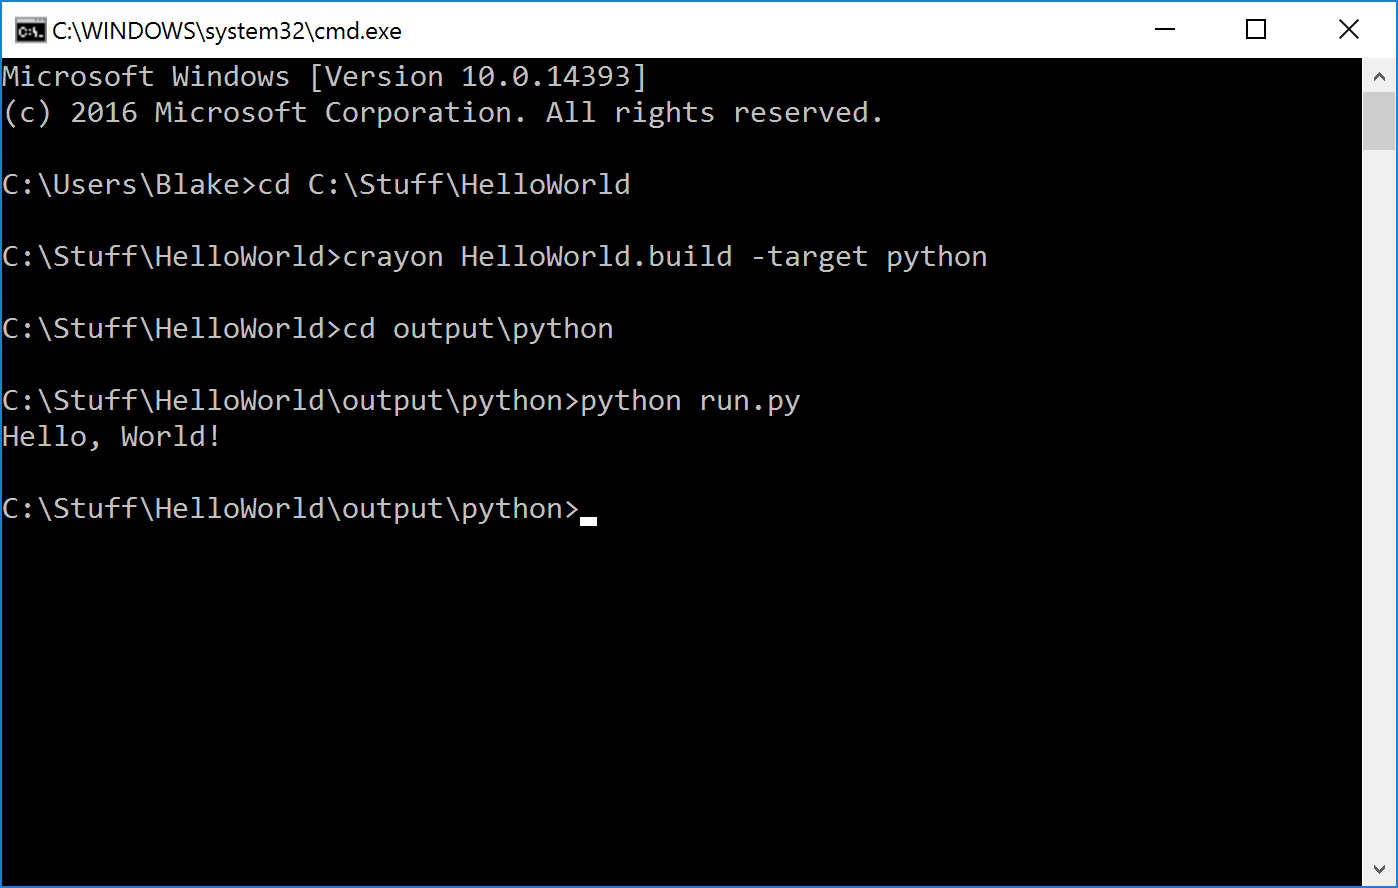
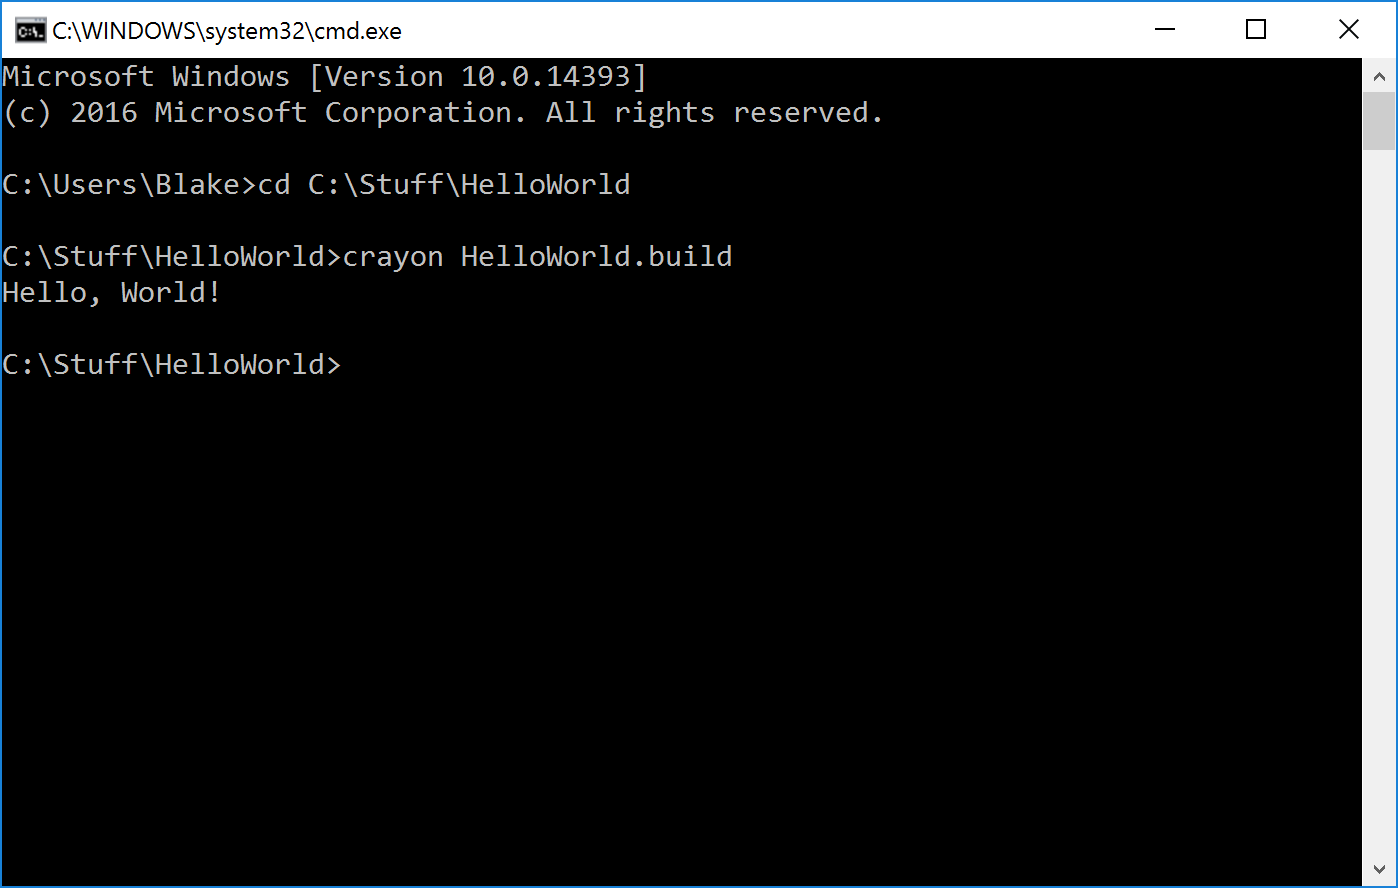
Various updates and rewording to the intermediate tutorial.

diff --git a/Tutorials/intro-intermediate/index.md b/Tutorials/intro-intermediate/index.md
@@ -54,13 +54,13 @@ function main() {
 }
 ```
 
-Now it's time to compile. Simply invoke `crayon` from the command line followed by the build file path:
+To compile, invoke `crayon` from the command line. Pass the .build file path as an argument.
 	
 ```
 C:\Stuff\HelloWorld> crayon HelloWorld.build
 ```
 
-And if all is well, you'll see this appear in the command line:
+If all is well, "Hello, World!" will appear in the command line:
 
 ```
 Hello, World!
@@ -71,9 +71,6 @@ operable program or batch file.` then your environment is not correctly configur
 [installation instructions](http://crayonlang.org/download/installation) or go to the IRC channel
 for help.
 
-If it worked, you'll notice there is now a folder called "output" which contains a folder called
-"cbx". In this folder is the compiled byte code (and eventually image/text/sound resources for your application).
-
 ![Hello World](./images/helloworld.png)
 
 Congratulations on running your first Crayon program.
@@ -81,11 +78,11 @@ Congratulations on running your first Crayon program.
 # Code structure and Execution Starting Point
 
 Unlike most scripting languages, Crayon requires all code to be wrapped in a function or method
-within a class (much like Java/C#). Each program must have a function definition called `main` which is where execution
-begins. When the function ends, the program will end. The order of how things are defined is not
-important, nor is the name of the files they are in. File layout is also irrelevant as all code
-is more or less combined together into one big mushy ball at the beginning of the compilation phase,
-much like C# code within the same assembly.
+within a class (much like Java/C#). Each program must have a function definition called `main` which
+is where execution begins. When the function ends, the program will end. The order of how things are
+defined is not important, nor is the name of the files they are in. File layout is also irrelevant,
+although it's best to define each class in an individual files that has the same name, for ease of
+finding things.
 
 # Types, Variables, and Math
 
@@ -103,9 +100,9 @@ Like most programming languages, there are types and variables. The basic types 
 | **Object Instance** | An Instance of an object (covered in the OOP tutorial). |
 
 Variables can be used to store values of any type. Assigning a value to a variable is done by
-placing an equals sign after the variable name followed by the value you want to assign, followed
+placing a `=` after the variable name followed by the value you want to assign, followed
 by a semicolon. Because Crayon is not type safe, the same variable can be reused to store different
-kinds of types.
+types of values.
 
 ```crayon
 cake = 3.14159; // the cake is a pi
@@ -117,30 +114,30 @@ Variable names can only contain alphanumeric characters and underscores. However
 begin with a number.
 
 There are various operators that can be used to manipulate values. These are generally consistent
-with most C-style languages.
+with most C-style curly-brace languages.
 
 Here is an exhaustive list of all of the operators:
 
 | Operator | Description |
 | --- | --- |
-| `+` | Addition or concatenation. For lists and strings, this concatenates values. For numbers, it is simple addition. If you add a string to any other type of value, it will result in a string. |
+| `+` | Addition or concatenation. For numbers, this will add two values. For lists and strings, this concatenates the values and creates a new value. If you add a string to any other type, it will create a string. |
 | `-` | Subtraction. This is only valid for numbers. |
 | `*` | Multiplication. If a string is multiplied by an integer, it will result in that string duplicated that integer number of times. |
 | `/` | Division. Divides two numbers. If the denominator is 0, that results in an error. Integers divided by integers will result in an integer that is rounded down to the nearest integer. |
-| `%` | Modulo. Will return remainder of a division operation. Modulo 0 will result in an error. Unlike some languages, `%` will always return a positive number. |
+| `%` | Modulo. Will return remainder of a division operation. Modulo 0 will result in an error. `%` will always return a positive number. |
 | `&&` | Boolean AND. This will AND two booleans together. This supports short-circuiting. (If the left side is false, the right side will not be evaluated) |
-| `||` | Boolean OR. This will OR two booleans together. Like AND, this supports short-circuiting if the left value is true. |
+| `&#124;&#124;` | Boolean OR. This will OR two booleans together. Like AND, this supports short-circuiting i.e. if the left value is true, the right side will not be evaluated. |
 | `==` | Equals. Checks to see if two values are the same. For primitive types (such as booleans, numbers, and even strings) this will return true if the values are the same. For reference types, (such as lists, objects, dictionaries) this will return true if and only if the instance is identical. For example, comparing two lists that have identical contents but are separate list instances will result in a false when compared with `==`. |
-| `!=` | Not equals. Returns the opposite of `==`. |
+| `!=` | Not equals. Returns the opposite boolean as `==`. |
 | `<` | Less than. Returns true if the value on the left is less than the value on the right. Only works for numbers. |
 | `>` | Greater than. Returns true if the value on the left is greater than the value on the right. Only works for numbers. |
-| `<=` | Less than or equals. You get the picture by now. |
-| `>=` | Greater than or equals. |
-| `&` | Bitwise AND. Performs an AND operation for each bit in the two numbers surrounding it. |
-| `|` | Bitwise OR. |
-| `^` | Bitwise XOR. |
-| `<<` | Bit shift left. |
-| `>>` | Bit shift right (sign extended). |
+| `<=` | Less than or equals. Returns true if the value on the left is less than or equal to the value on the right. Only works for numbers. |
+| `>=` | Greater than or equals. Returns true if the value on the left is greater than or equal to the value on the right. Only works for numbers. |
+| `&` | Bitwise AND. Performs an AND operation for each bit in the two integers surrounding it. |
+| `&#124;` | Bitwise OR. Performs an OR operation for each bit in the two integers surrounding it. |
+| `^` | Bitwise XOR. Performs an XOR operation for each bit in the two integers surrounding it. |
+| `<<` | Bit shift left. Only applicable to integers. |
+| `>>` | Bit shift right (sign extended). Only applicable to integers. |
 | `**` | Exponent. Raises the number on the left to the power on the right. 00 results in 1 because I said so. |
 | `!` | Boolean NOT. This is a unary operator that prefixes a value rather than separates two values. |
 
@@ -161,6 +158,21 @@ function main() {
   f = -5 % 40; // 35
   g = "W" + 10 * "e" + 4 * "!" + 1; // Weeeeeeeeee!!!!1
 }
+```
+
+Note that integers and floats are different types. Math operations performed on integers will always
+result in integers (except for the exponent operator). Math operations performed on floats will always
+result in floats, and operations that mix integers and floats will result in floats. If math operation 
+involving integers would conventionally result in a decimal (such as division) the result is rounded
+down to force the result to be an integer. This is consistent with most languages, but not all (such 
+as JavaScript, which does not make a distinction between integers and floats) and so may be possibly 
+unintuitive depending on your previous programming background. Consider the following examples.
+
+```crayon
+value = 5 / 2; // this is 2
+value = 5.0 / 2.0; // this is 2.5
+value = 5 / 2.0; // this is also 2.5
+value = 3.8 * 10; // this is the float 38.0, not the integer 38.
 ```
 
 ## Incremental Assignment
@@ -213,8 +225,8 @@ function main() {
 
 # Control Flow
 
-Crayon supports common control flow constructs that most languages support. These include if/else
-statements, for loops, while loops, do-while loops, and switch statements.
+Crayon supports common control flow constructs that most languages support. These include `if`/`else`
+statements, `for` loops, `while` loops, `do`-`while` loops, `switch` statements, and `try`/`catch`/`finally`.
 
 ## If Statements
 
@@ -226,7 +238,7 @@ function main() {
   a = 3;
   b = 4;
   if (a * b == 12) {
-    print("This program is not exciting. I apologize.");
+    print("This program is not very exciting. I apologize.");
   }
 }
 ```
@@ -235,6 +247,7 @@ The else condition is also supported...
 
 ```crayon
 function main() {
+  someValue = 4;
   if (someValue > 10) {
     print("It gets better.");
   } else {
@@ -262,35 +275,32 @@ function main() {
   while (output.length < 10) {
     output += "o";
   }
-  print(output);
+  print(output); // fooooooooo
 }
 ```
 
 ## For Loops
 
-For loops are really just shorthand for while loops that have a setup, condition, and step
-operation. For loops are constructed with the word `for` followed by parenthesis enclosing 3
-semicolon-delimited parts. The first part is a list of statements separated by commas that indicate 
-some sort of setup. The second part is a boolean expression. The third and final part is a list of 
-statements separated by commas that indicate some sort of stepping command. After the parenthesis is
-a block of code.
+For loops work the same way as most curly-brace languages:
 
 ```crayon
 function main() {
-  for (output = "f"; output.length < 10; output += "o") {
-    print(output);
+  for (i = 10; i >= 1; i--) {
+    print(i);
   }
+  print("Lift off.");
 }
 ```
 
-The initialization (first part) is run first. Then condition is checked before running the body of
-the code. Then the nested code block runs. After the code block is done, the stepping command is 
-run. Then it loops back and checks the condition again before trying to run it again. And then it
-keeps repeating until the condition is no longer true.
+For loops are mostly just shorthand for while loops that have a some sort of initialization, a loop 
+condition, and an incremental step operation. In the example above, `i` starts at 10, gets decremented
+every loop iteration, and continues all the way down to 1. Each of these components are separated by 
+semicolons in the parenthesis after the word `for`.
 
-You'll notice this code snippet is roughly equivalent to the while loop code above (aside from the
-print statement). 
-Here's an example of a for loop that uses compound initialization and stepping...
+The initialization and the step can also be compounded with multiple statements. In that case, separate
+the components with commas instead of semicolons. 
+For example, the following code has two initialization statements: `i = 0` and `j = 10`. It also has two
+step statements: `i++` and `j--`:
 
 ```crayon
 function main() {
@@ -330,7 +340,7 @@ while (true) {}
 
 ## Do-While Loops
 
-Although a water landing is unlikely, just in case...
+A water-landing is unlikely, but just in case...
 
 ```crayon
 i = 0;
@@ -387,7 +397,7 @@ switch statement must have entirely integer cases or entirely string cases.
 
 There are several built-in Libraries. These allow you to do more advanced things other than just 
 print things to the screen, such as opening a graphics window and drawing images to it, playing 
-sounds, accessing Gamepad, etc. All built-in libraries either have a platform independent 
+sounds, interacting with a Gamepad, etc. All built-in libraries either have a platform independent 
 implementation or a graceful fallback no-op behavior for platforms where there is no implementation.
 
 `Math` is one of the more commonly used libraries. To import that math library, include 
@@ -402,13 +412,11 @@ function main() {
 }
 ```
 
-In the above example, the `import Math;` statement does 2 things. It bundles the function
-definitions in the Math library into your project if it already hasn't been already from another
-file that may also include a Math import. Additionally, it will also indicate that the `Math`
+In the above example, the `import Math;` statement does 2 things. It ensures that the Math function
+definitions are bundled into your project. Additionally, it will also indicate that the `Math`
 namespace can now be used anywhere in this file. The "Math" that appears within the print statement 
 is actually the name of a namespace and .floor indicates that you want to invoke the floor function 
-that's in the Math namespace. Because Math is imported, you can optionally leave off the namespace 
-like this...
+that's in the Math namespace. If you want, you can optionally leave off the namespace like this...
 
 ```crayon
 import Math;
@@ -419,8 +427,7 @@ function main() {
 ```
 
 This code is equivalent, but runs the risk that the compiler may get confused in the event that 
-another function called floor is defined somewhere else. Math.floor is unambiguous. Either 
-Math.floor or just floor may be considered "cleaner" depending on your school of thought. In fact,
+another function called floor is defined somewhere else. Math.floor is unambiguous. In fact,
 there is also a library called "Core". Core is implicitly imported at the top of all files and the
 print statement we've been using so far is actually a function defined in the Core library. And so 
 you could potentially also write it like this...
@@ -436,9 +443,15 @@ function main() {
 
 The entire list of built in libraries is available in the [documentation](../../Docs/index.md).
 
-# A Bare Bones "Game"
+# A Simple "Game"
 
-At the core of every game is the game loop. This is generally a while loop that runs indefinitely, or at least as long as the game is running. In this loop you read input from the user, update the game model with those inputs, make some calculations to put the game in a new state, and then draw the new state to the screen. After this is done, it pauses for some amount of time so that each loop consumes exactly the same amount of time. This amount of time is called the frame rate and is generally either 60 frames per second or 30 frames per second (where "frame" refers to the events that take place in the body of the loop).
+At the core of every game is the game loop. This is generally a while loop that runs indefinitely,
+or at least as long as the game is running. In this loop you read input from the user, update the
+game model with those inputs, make some calculations to put the game in a new state, and then draw
+the new state to the screen. After this is done, it pauses for some amount of time so that each
+loop consumes exactly the same amount of time. This amount of time is called the frame rate and
+is generally either 60 frames per second or 30 frames per second (where "frame" refers to the
+events that take place in the body of the loop).
 
 ```crayon
 import Game;
@@ -646,7 +659,7 @@ Here is a list of all the methods and fields that can be called on a list, what 
 | **.length** | Returns the length of the list. This is a field, not a method, so parenthesis are not required. | O(1) |
 | **.add(item)** | Adds an item to the end of a list. | O(1) amortized |
 | **.choice()** | Returns a random item from the list. | O(1) |
-| **.clear()**	Removes all elements of the list and changes size to 0. | O(1) |
+| **.clear()** | Removes all elements of the list and changes size to 0. | O(1) |
 | **.clone()** | Returns a shallow copy of the list. | O(n) |
 | **.concat(secondList)** | Appends all the items in the secondList to the end of this list. | O(n) |
 | **.contains(item)** | Returns true if the list contains the given item. Iterates sequentially through the list from the beginning and uses the same logic as == for comparing each item. | O(n) |
